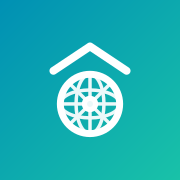
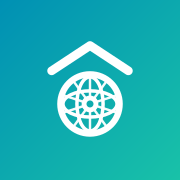
Re-cut the RentOS mark so the bicycle actually reads
Spoke count turned out to be the whole design, and the first two attempts got
it wrong in opposite directions:

- Four spokes plus two full-weight arcs: the arcs dominated and the mark read
  as a globe under a roof. The bicycle was invisible.
- Three thick spokes: read as a steering wheel. Bold radial spokes are
  automotive; that was the wrong instinct.

A bicycle wheel is identified by many thin spokes against a thin rim, so the
mark is now ten fine spokes, a 3.6px rim and a small hub, with the meridian and
parallel drawn over the top so the globe still reads without competing.

Verified by rendering down to 48px and 32px rather than assuming: at 48 it is
fully legible, at 32 the spokes soften into texture while the silhouette holds.
Favicons reduce to silhouette at 16px regardless.

Mark geometry is duplicated in four places by necessity (public/icon.svg,
public/logo.svg, src/components/rentos-mark.tsx and the icon generator), so all
four are updated together and icons regenerated with npm run icons.

diff --git a/src/components/rentos-mark.tsx b/src/components/rentos-mark.tsx
@@ -23,20 +23,23 @@ export function RentosMark({ className }: { className?: string }) {
       aria-label="RentOS"
     >
       {/* Roof */}
-      <path d="M11 21 L32 7 L53 21" strokeWidth={4.5} />
+      <path d="M10 21 L32 6.5 L54 21" strokeWidth={5} />
       {/* Tyre */}
-      <circle cx={32} cy={40} r={17} strokeWidth={4} />
-      {/* Spokes, which are also the globe's grid */}
-      <g strokeWidth={2} opacity={0.9}>
-        <line x1={32} y1={23} x2={32} y2={57} />
-        <line x1={15} y1={40} x2={49} y2={40} />
-        <line x1={20} y1={28} x2={44} y2={52} />
-        <line x1={44} y1={28} x2={20} y2={52} />
+      <circle cx={32} cy={40} r={17} strokeWidth={5} />
+      {/* The world, kept quiet so the wheel reads first */}
+      <g strokeWidth={1.5} opacity={0.55}>
         <ellipse cx={32} cy={40} rx={8} ry={17} />
         <ellipse cx={32} cy={40} rx={17} ry={8} />
+        <line x1={15} y1={40} x2={49} y2={40} />
+      </g>
+      {/* Three spokes, hub to rim */}
+      <g strokeWidth={3}>
+        <line x1={32} y1={35.5} x2={32} y2={23} />
+        <line x1={28.1} y1={42.25} x2={17.3} y2={48.5} />
+        <line x1={35.9} y1={42.25} x2={46.7} y2={48.5} />
       </g>
       {/* Hub */}
-      <circle cx={32} cy={40} r={3.2} strokeWidth={3} />
+      <circle cx={32} cy={40} r={4.5} strokeWidth={3.5} />
     </svg>
   );
 }
